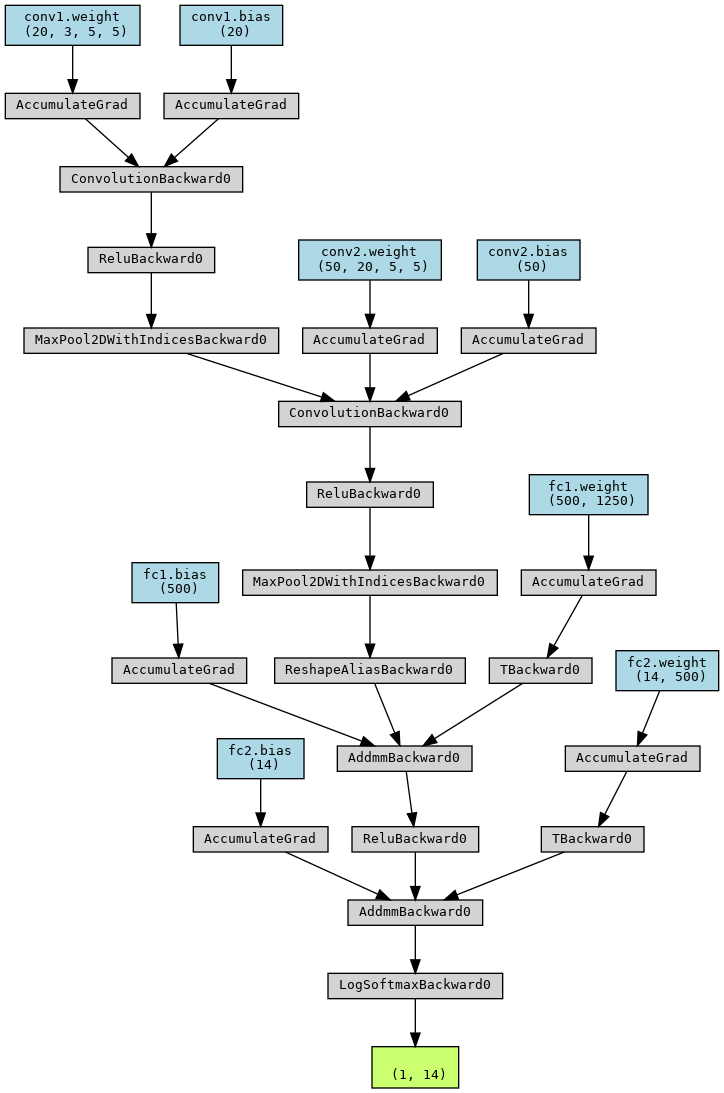
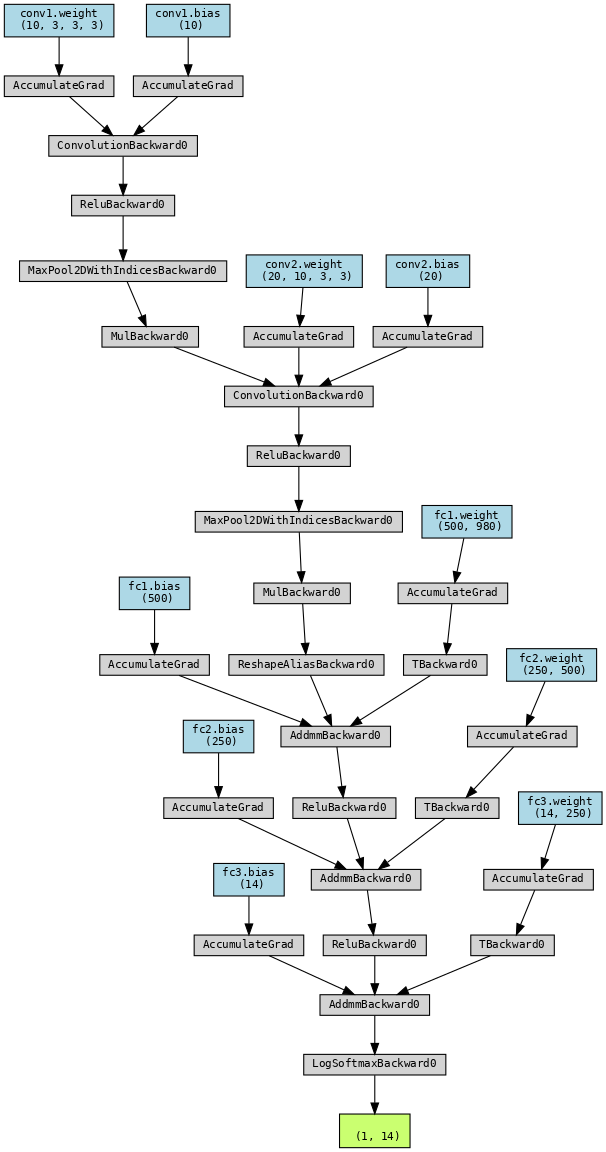
some other models has been added

Changed region(s): [[0.0, 0.0, 1.0, 1.0]]

diff --git a/mlenet.py b/mlenet.py
@@ -1,60 +1,116 @@
-from torch.nn import Module
-from torch.nn import Conv2d
-from torch.nn import Linear
-from torch.nn import MaxPool2d
-from torch.nn import ReLU
+# from torch.nn import Module
+# from torch.nn import Conv2d
+# from torch.nn import Linear
+# from torch.nn import MaxPool2d
+# from torch.nn import ReLU
+# from torch.nn import LogSoftmax
+# from torch import flatten
+# class LeNet(Module):
+#     def __init__(self, numChannels, classes):
+#         # call the parent constructor
+#         super(LeNet, self).__init__()
+#
+#         # initialize first set of CONV => RELU => POOL layers
+#         self.conv1 = Conv2d(in_channels=numChannels, out_channels=20,
+#             kernel_size=(5, 5))
+#         self.relu1 = ReLU()
+#         self.maxpool1 = MaxPool2d(kernel_size=(2, 2), stride=(2, 2))
+#
+#         # initialize second set of CONV => RELU => POOL layers
+#         self.conv2 = Conv2d(in_channels=20, out_channels=50,
+#             kernel_size=(5, 5))
+#         self.relu2 = ReLU()
+#         self.maxpool2 = MaxPool2d(kernel_size=(2, 2), stride=(2, 2))
+#
+#         # initialize first (and only) set of FC => RELU layers
+#         self.fc1 = Linear(in_features=980, out_features=500)
+#         # self.fc1 = Linear(in_features=3250, out_features=500)
+#         # self.fc1 = Linear(in_features=7250, out_features=500)
+#         self.fc1 = nn.Linear(980, 500)
+#         self.fc2 = nn.Linear(500, 250)
+#         self.fc3 = nn.Linear(250, classes)
+#         self.relu3 = ReLU()
+#
+#         # initialize our softmax classifier
+#         self.fc2 = Linear(in_features=500, out_features=classes)
+#         self.logSoftmax = LogSoftmax(dim=1)
+#
+#     def forward(self, x):
+#         # pass the input through our first set of CONV => RELU =>
+#         # POOL layers
+#         x = self.conv1(x)
+#         x = self.relu1(x)
+#         x = self.maxpool1(x)
+#
+#         # pass the output from the previous layer through the second
+#         # set of CONV => RELU => POOL layers
+#         x = self.conv2(x)
+#         x = self.relu2(x)
+#         x = self.maxpool2(x)
+#
+#         # flatten the output from the previous layer and pass it
+#         # through our only set of FC => RELU layers
+#         x = flatten(x, 1)
+#         x = self.fc1(x)
+#         x = self.relu3(x)
+#
+#         # pass the output to our softmax classifier to get our output
+#         # predictions
+#         x = self.fc2(x)
+#         output = self.logSoftmax(x)
+#
+#         # return the output predictions
+#         return output
 from torch.nn import LogSoftmax
-from torch import flatten
-class LeNet(Module):
-    def __init__(self, numChannels, classes):
-        # call the parent constructor
-        super(LeNet, self).__init__()
+import torch
+import torch.nn as nn
+import torch.nn.functional as F
 
-        # initialize first set of CONV => RELU => POOL layers
-        self.conv1 = Conv2d(in_channels=numChannels, out_channels=20,
-            kernel_size=(5, 5))
-        self.relu1 = ReLU()
-        self.maxpool1 = MaxPool2d(kernel_size=(2, 2), stride=(2, 2))
-
-        # initialize second set of CONV => RELU => POOL layers
-        self.conv2 = Conv2d(in_channels=20, out_channels=50,
-            kernel_size=(5, 5))
-        self.relu2 = ReLU()
-        self.maxpool2 = MaxPool2d(kernel_size=(2, 2), stride=(2, 2))
-
-        # initialize first (and only) set of FC => RELU layers
-        self.fc1 = Linear(in_features=1250, out_features=500)
-        # self.fc1 = Linear(in_features=3250, out_features=500)
-        # self.fc1 = Linear(in_features=7250, out_features=500)
-        self.relu3 = ReLU()
-
-        # initialize our softmax classifier
-        self.fc2 = Linear(in_features=500, out_features=classes)
+class LeNetRegularized(nn.Module):
+    def __init__(self, numChannels, classes=14, dropout_rate=0.5, weight_decay=0.001):
+        super(LeNetRegularized, self).__init__()
+        self.dropout_rate = dropout_rate
+        self.classes = classes
+        self.weight_decay = weight_decay
+        self.conv1 = nn.Conv2d(numChannels, 10, kernel_size=3)
+        self.conv2 = nn.Conv2d(10, 20, kernel_size=3)
+        ##### 68    #####
+        # self.fc1 = nn.Linear(2100, 800)
+        # self.fc2 = nn.Linear(800, 450)
+        # self.fc3 = nn.Linear(450, classes)
+        ######    34   #####
+        self.fc1 = nn.Linear(980, 500)
+        self.fc2 = nn.Linear(500, 250)
+        self.fc3 = nn.Linear(250, classes)
+        ####  17 ########
+        # self.fc1 = nn.Linear(280, 150)
+        # self.fc2 = nn.Linear(150, 75)
+        # self.fc3 = nn.Linear(75, classes)
+         #####  9 ########
+        # self.fc1 = nn.Linear(600, 300)
+        # self.fc2 = nn.Linear(300, 150)
+        # self.fc3 = nn.Linear(150, classes)
+        self.dropout = nn.Dropout(dropout_rate)
         self.logSoftmax = LogSoftmax(dim=1)
 
+
     def forward(self, x):
-        # pass the input through our first set of CONV => RELU =>
-        # POOL layers
-        x = self.conv1(x)
-        x = self.relu1(x)
-        x = self.maxpool1(x)
+        x = F.max_pool2d(F.relu(self.conv1(x)), 2, 2)
+        # x = F.relu(self.conv1(x))
+        x = self.dropout(x)
+        x = F.max_pool2d(F.relu(self.conv2(x)), 2, 2)
+        # x = F.relu(self.conv2(x))
+        x = self.dropout(x)
+        x = torch.flatten(x, 1)
+        x = F.relu(self.fc1(x))
+        x = F.relu(self.fc2(x))
+        x = self.fc3(x)
+        x = self.logSoftmax(x)
+        return x
 
-        # pass the output from the previous layer through the second
-        # set of CONV => RELU => POOL layers
-        x = self.conv2(x)
-        x = self.relu2(x)
-        x = self.maxpool2(x)
-
-        # flatten the output from the previous layer and pass it
-        # through our only set of FC => RELU layers
-        x = flatten(x, 1)
-        x = self.fc1(x)
-        x = self.relu3(x)
-
-        # pass the output to our softmax classifier to get our output
-        # predictions
-        x = self.fc2(x)
-        output = self.logSoftmax(x)
-
-        # return the output predictions
-        return output
+    def l2_regularization_loss(self):
+        l2_loss = 0
+        # l2_loss = torch.tensor(0.).to(device)
+        for param in self.parameters():
+            l2_loss += torch.norm(param)
+        return l2_loss * self.weight_decay

diff --git a/main.py b/main.py
@@ -17,21 +17,32 @@ model = models.resnet18()
 input_data = torch.randn(1, 3, 34, 34)
 
 # Print model summary
-print(model)
+# print(model)
 
 
 # Lenet-5
 model_lenet = lenet.LeNet()
 
 # Print model summary
-print(model_lenet)
+# print(model_lenet)
 
 
 # M-Lenet
-m_lenet = mlenet.LeNet(3, 14)
+m_lenet = mlenet.LeNetRegularized(3, 14)
 
 # Print model summary
-print(m_lenet)
+# print(m_lenet)
+
+# Mobile-Lenet
+mobilenet = models.MobileNetV2()
+
+# Print model summary
+# print(mobilenet)
+
+trans_model = models.squeezenet1_1()
+
+# Print model summary
+# print(trans_model)
 
 
 # Compute FLOPs and parameters
@@ -51,3 +62,15 @@ print(f" m_lenet FLOPs: {flops / 1e9} G, Parameters: {params / 1e6} M")
 y = m_lenet(input_data)
 torchviz.make_dot(y, params=dict(m_lenet.named_parameters())).render("m_lenet", format="png")
 
+
+# Compute FLOPs and parameters
+flops, params = profile(mobilenet, inputs=(input_data,))
+print(f" mobilenet FLOPs: {flops / 1e9} G, Parameters: {params / 1e6} M")
+y = mobilenet(input_data)
+torchviz.make_dot(y, params=dict(mobilenet.named_parameters())).render("mobilenet", format="png")
+
+# Compute FLOPs and parameters
+flops, params = profile(trans_model, inputs=(input_data,))
+print(f" trans_model FLOPs: {flops / 1e9} G, Parameters: {params / 1e6} M")
+y = trans_model(input_data)
+torchviz.make_dot(y, params=dict(trans_model.named_parameters())).render("trans_model", format="png")
